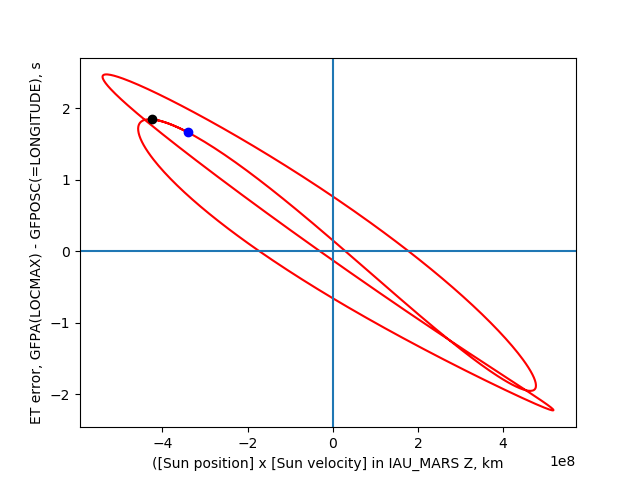
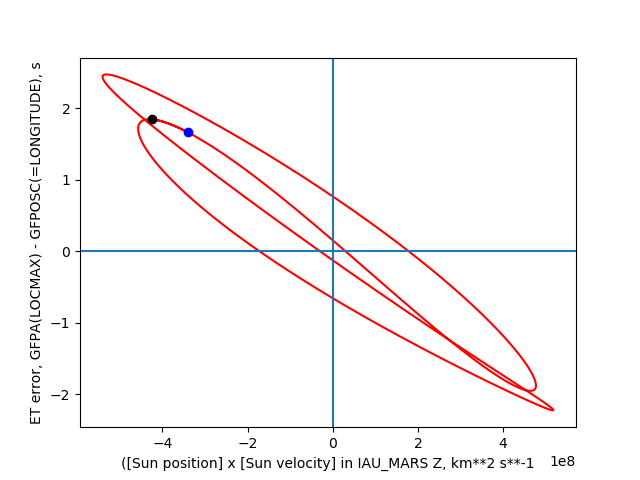
Update abscissa label

Changed region(s): [[0.1875, 0.9375, 0.8125, 1.0]]

diff --git a/plot_insight_midnights_data.py b/plot_insight_midnights_data.py
@@ -36,6 +36,6 @@ plt.plot(vxps[0],errs[0],'ob')
 plt.plot(vxps[-1],errs[-1],'ok')
 plt.axhline()
 plt.axvline()
-plt.xlabel('([Sun position] x [Sun velocity] in IAU_MARS Z, km')
+plt.xlabel('([Sun position] x [Sun velocity] in IAU_MARS Z, km**2 s**-1')
 plt.ylabel('ET error, GFPA(LOCMAX) - GFPOSC(=LONGITUDE), s')
 plt.show()
